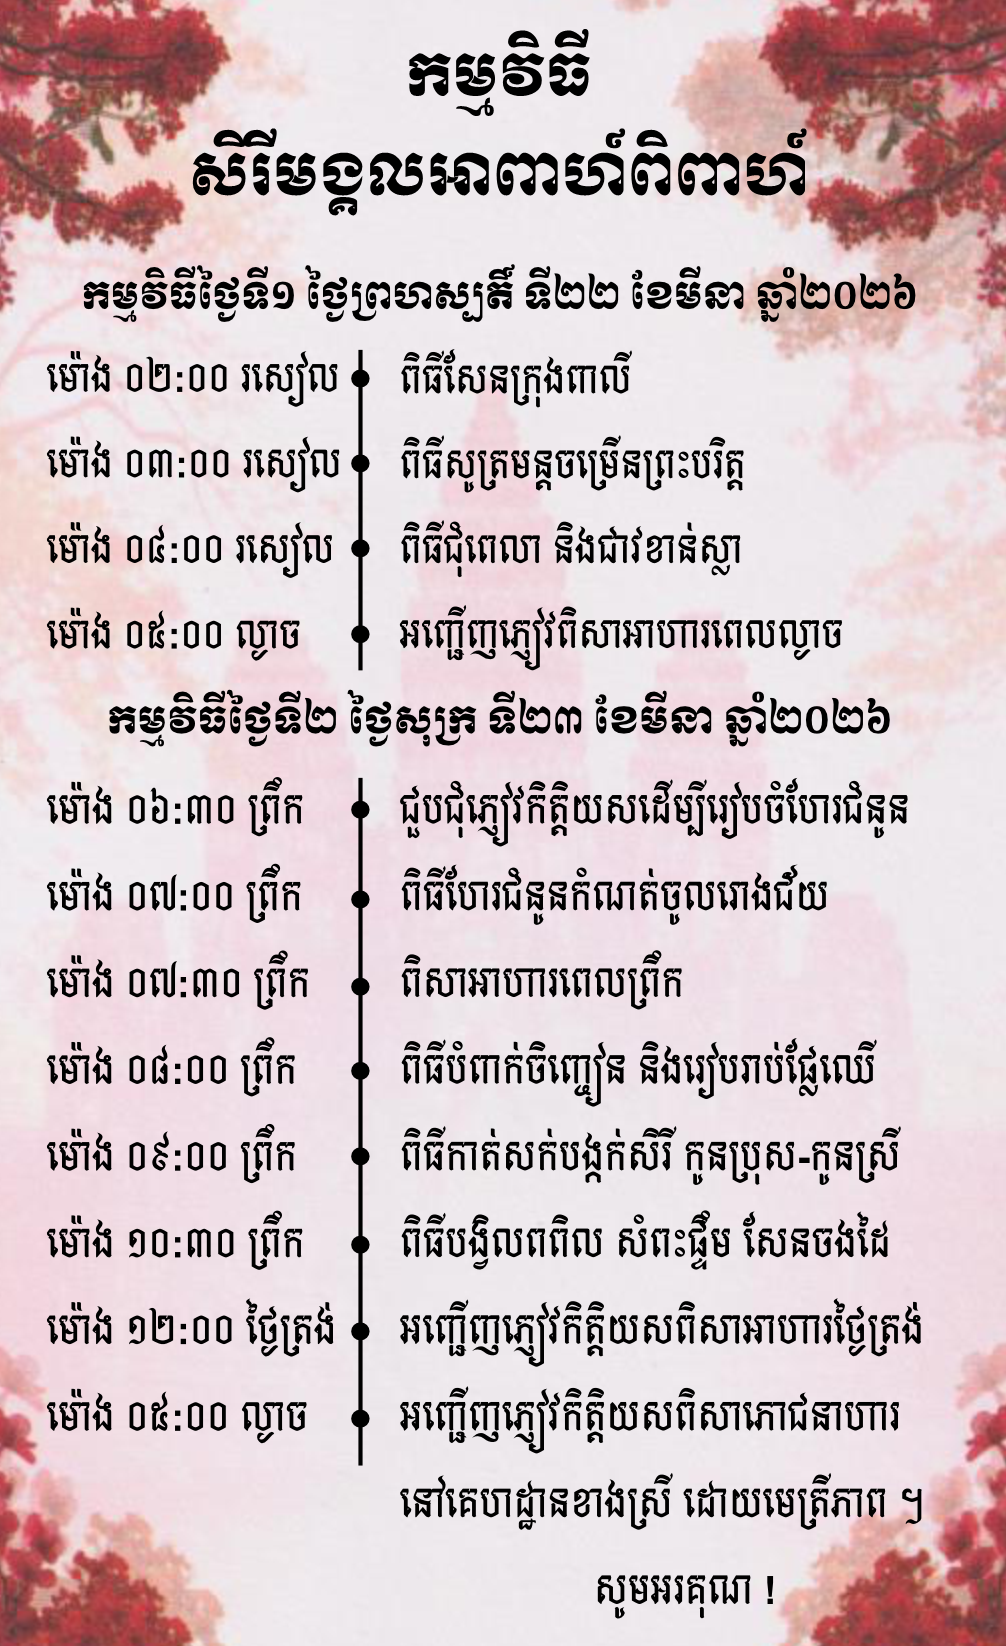
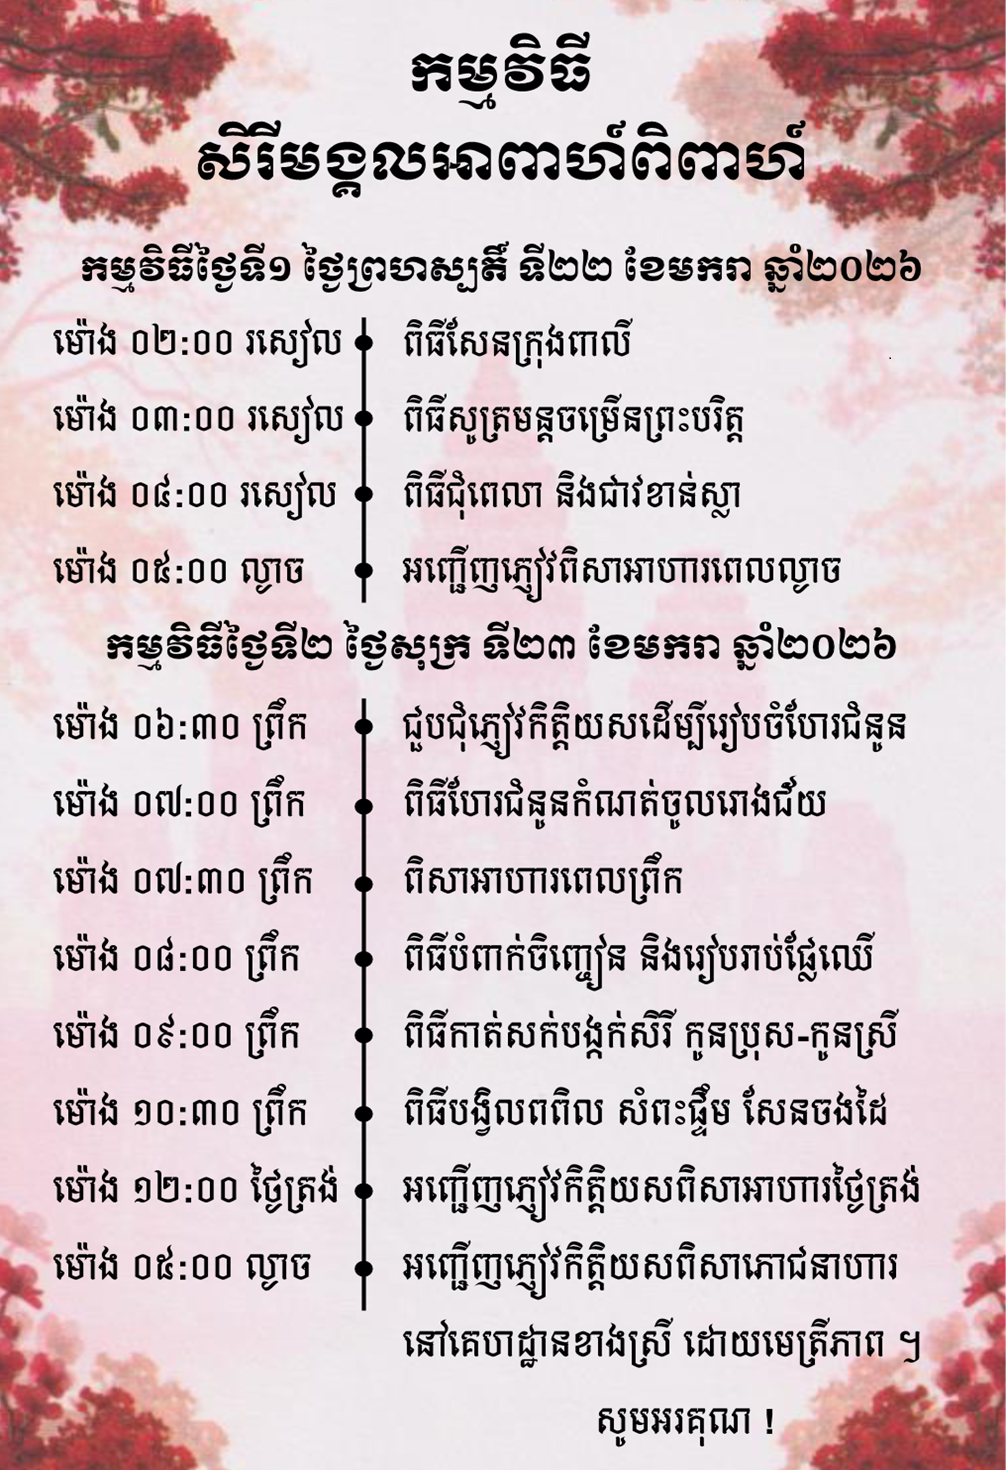
update title and image

Changed region(s): [[0.0, 0.0, 1.0, 1.0], [0.6163, 0.0, 0.6471, 0.0306]]

diff --git a/src/App.jsx b/src/App.jsx
@@ -50,9 +50,15 @@ function App() {
           </h1>
           <div class="spacer"></div>
         </div>
-        <p style={{ background: "none", color: "#000000" }}>
-          Wedding Invitation
-        </p>
+        <h2
+          style={{
+            background: "none",
+            color: "#ffffffff",
+            fontFamily: "Kdam Thmor Pro",
+          }}
+        >
+          សិរីមង្គលអាពាហ៏ពិពាហ៏
+        </h2>
       </header>
       <main>
         <div
